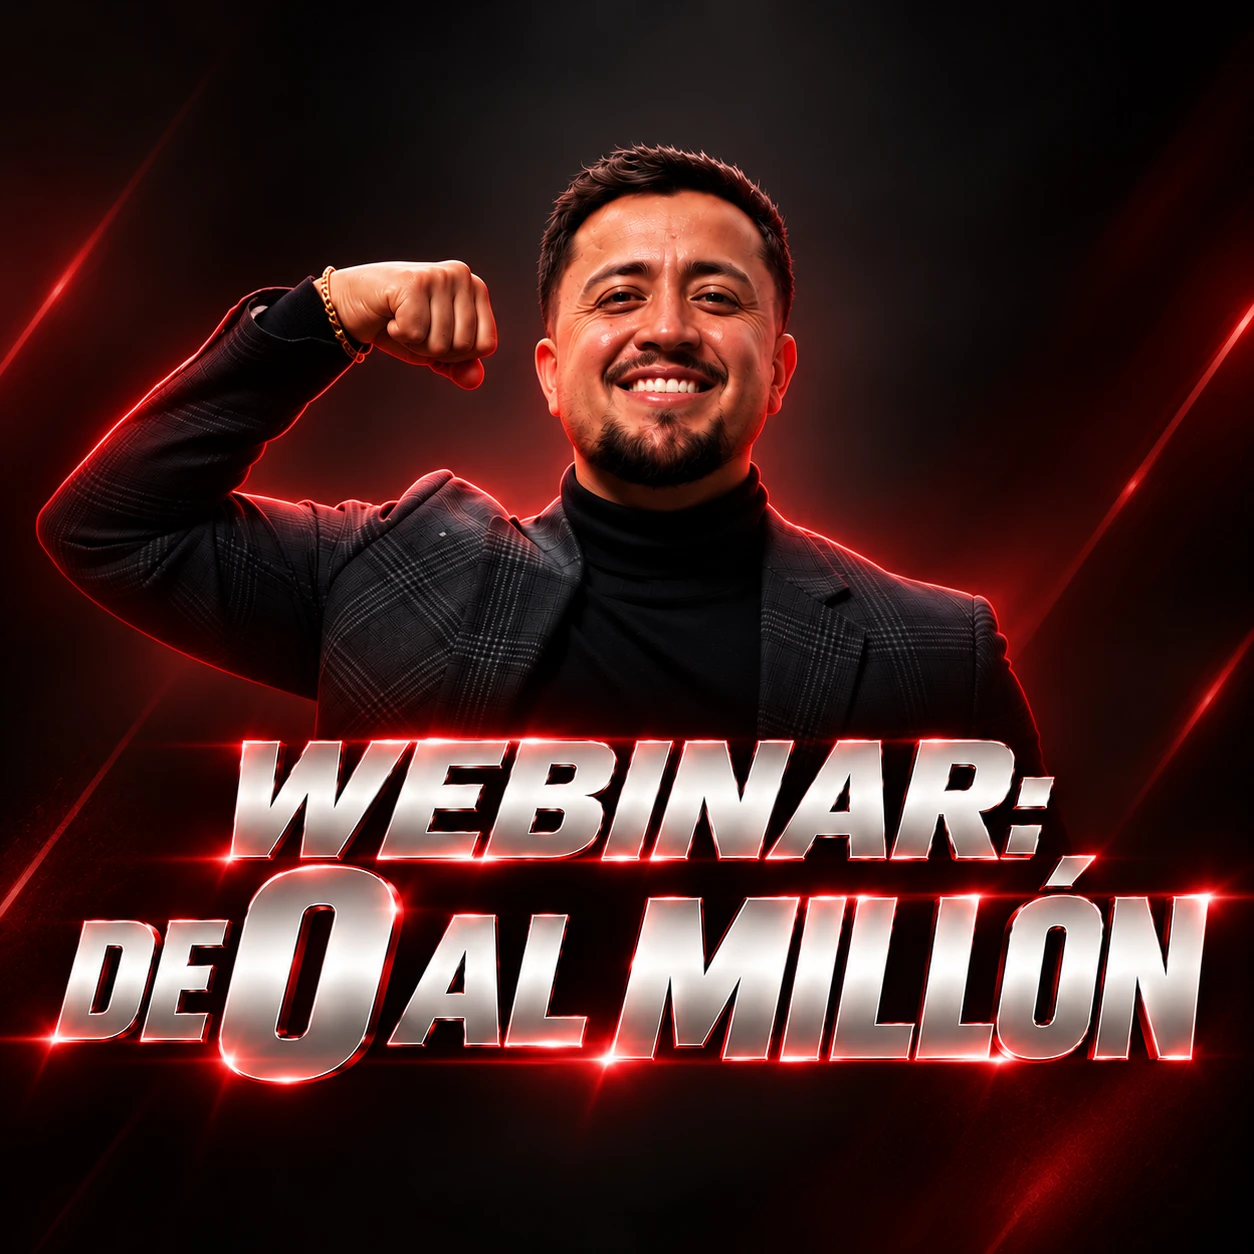
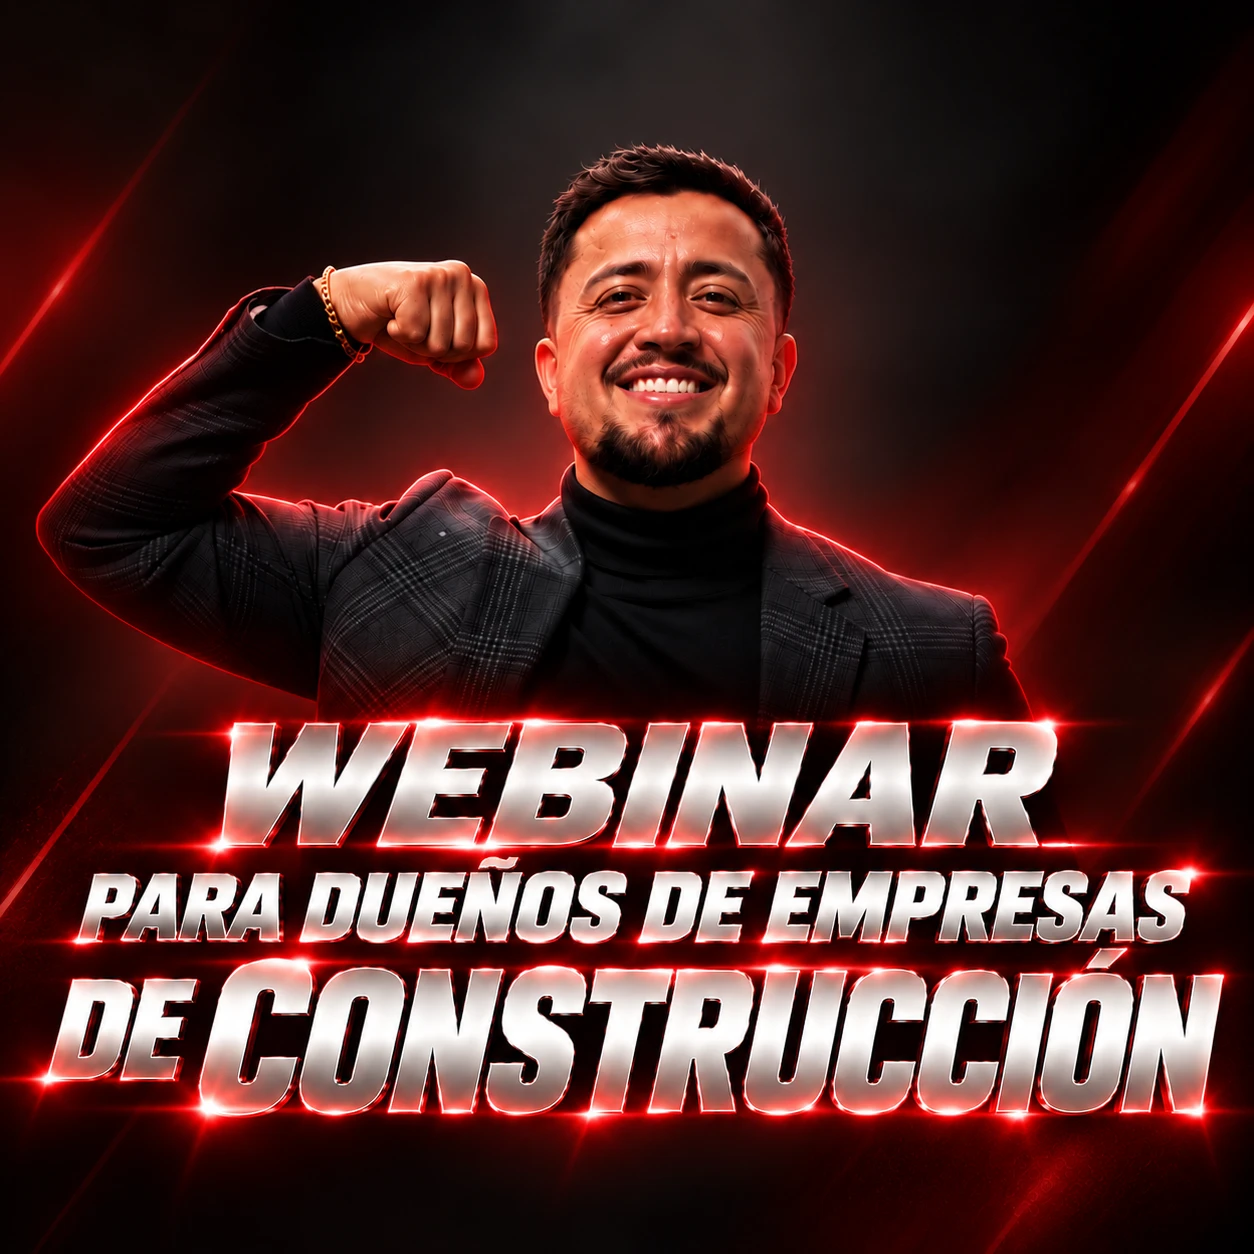
Webinar pages: new hero art, name is 'Webinar para dueños de empresas de construcción'
Claude-Session: https://claude.ai/code/session_01LYzKUjj9ggfEVW4Gcg39jq

diff --git a/webinar/gracias.html b/webinar/gracias.html
@@ -3,8 +3,8 @@
 <head>
 <meta charset="utf-8">
 <meta name="viewport" content="width=device-width, initial-scale=1">
-<title>¡Ya estás registrado(a)! · Webinar para contratistas</title>
-<meta name="description" content="Registro recibido. Completa tu registro en Zoom para recibir tu link de acceso al webinar para contratistas con Hugo Pérez, miércoles 14 de octubre, 8:00 PM (hora del Este).">
+<title>¡Ya estás registrado(a)! · Webinar para dueños de empresas de construcción</title>
+<meta name="description" content="Registro recibido. Completa tu registro en Zoom para recibir tu link de acceso al webinar para dueños de empresas de construcción con Hugo Pérez, miércoles 14 de octubre, 8:00 PM (hora del Este).">
 <meta name="robots" content="noindex, nofollow">
 <meta name="author" content="Hugo Pérez">
 <link rel="icon" href="../next-level-leaders/images/one-empire-icon-red.png">
@@ -468,6 +468,10 @@ fbq('track', 'CompleteRegistration');
     .cal { justify-content: center; }
     .btn { white-space: normal; text-align: center; }
   }
+  @media (max-width: 760px) {
+    .pill { flex-direction: column; gap: 6px; border-radius: 16px; padding: 10px 16px; text-align: center; font-size: 13px; }
+    .pill b { white-space: nowrap; }
+  }
 </style>
 </head>
 <body>
@@ -489,7 +493,7 @@ fbq('track', 'CompleteRegistration');
 <section class="hero ty-hero">
   <div class="wrap">
     <div class="reveal ty-copy">
-      <span class="pill"><b>Registro recibido</b> Webinar para contratistas</span>
+      <span class="pill"><b>Registro recibido</b> Webinar para dueños de empresas de construcción</span>
       <h1><span class="chrome">¡Ya estás registrado(a)</span> <span class="accent">para el webinar gratuito!</span></h1>
       <p class="lead">Tu lugar está apartado. Sigue estos <b>3 pasos</b> para no perderte la sesión en vivo con Hugo Pérez.</p>
       <div class="facts">
@@ -529,7 +533,7 @@ fbq('track', 'CompleteRegistration');
         <div class="step-top"><span class="step-n">02</span><span class="step-tag">Paso 2</span></div>
         <h3>Mantén tu atención al teléfono</h3>
         <p>Uno de nuestros asesores te contactará para darte recordatorios y prepararte para la sesión.</p>
-        <a class="btn btn-ghost" href="https://wa.me/5215623221142?text=Hola%2C%20quiero%20completar%20mi%20registro%20al%20webinar%20para%20contratistas%20por%20WhatsApp.%20%F0%9F%9A%80" target="_blank" rel="noopener"><span class="wa" aria-hidden="true"></span>Completar registro por WhatsApp</a>
+        <a class="btn btn-ghost" href="https://wa.me/5215623221142?text=Hola%2C%20quiero%20completar%20mi%20registro%20al%20webinar%20para%20due%C3%B1os%20de%20empresas%20de%20construcci%C3%B3n%20por%20WhatsApp.%20%F0%9F%9A%80" target="_blank" rel="noopener"><span class="wa" aria-hidden="true"></span>Completar registro por WhatsApp</a>
       </article>
       <article class="card step step-key reveal">
         <div class="step-top"><span class="step-n">03</span><span class="step-tag">Paso 3</span></div>
@@ -547,7 +551,7 @@ fbq('track', 'CompleteRegistration');
   <div class="wrap">
     <div class="row">
       <img src="../next-level-leaders/images/one-empire-logo-red.png" alt="One Empire" loading="lazy">
-      <span>© <span id="year">2026</span> One Empire · Hugo Pérez · Webinar para contratistas</span>
+      <span>© <span id="year">2026</span> One Empire · Hugo Pérez · Webinar para dueños de empresas de construcción</span>
     </div>
   </div>
 </footer>
@@ -559,7 +563,7 @@ fbq('track', 'CompleteRegistration');
 
   // Add-to-calendar links (8:00 PM ET, 2 hours)
   (function () {
-    var EVENT_NAME = "Webinar para contratistas con Hugo Pérez";
+    var EVENT_NAME = "Webinar para dueños de empresas de construcción con Hugo Pérez";
     var START = "20261014T200000";
     var END = "20261014T220000";
     var TIMEZONE = "America/New_York";

diff --git a/webinar/index.html b/webinar/index.html
@@ -451,7 +451,7 @@ fbq('track', 'PageView');
     .hero .key-art + h1 { font-size: clamp(34px, 5vw, 46px); }
   }
   @media (max-width: 760px) {
-    .hero .key-art { max-width: none; width: auto; align-self: stretch; margin: 0 calc(-1 * clamp(16px, 4vw, 40px)) -36px; border-radius: 0; border: 0; box-shadow: none; -webkit-mask-image: linear-gradient(180deg, #000 0%, #000 72%, transparent 100%); mask-image: linear-gradient(180deg, #000 0%, #000 72%, transparent 100%); }
+    .hero .key-art { max-width: none; width: auto; align-self: stretch; margin: 0 calc(-1 * clamp(16px, 4vw, 40px)) 10px; border-radius: 0; border: 0; box-shadow: none; -webkit-mask-image: linear-gradient(180deg, #000 0%, #000 72%, transparent 100%); mask-image: linear-gradient(180deg, #000 0%, #000 72%, transparent 100%); }
     .hero-copy > div:first-child > :not(.key-art) { position: relative; z-index: 1; }
     .hero .key-art + h1 { font-size: clamp(25px, 7.4vw, 34px); }
     h2 { font-size: clamp(28px, 8.4vw, 40px); }
@@ -460,6 +460,10 @@ fbq('track', 'PageView');
     .learn-wrap { padding: 28px 20px; }
     .learn-wrap h2 { font-size: clamp(26px, 7.8vw, 40px); }
     .pill { max-width: 100%; font-size: 13px; }
+  }
+  @media (max-width: 760px) {
+    .pill { flex-direction: column; gap: 6px; border-radius: 16px; padding: 10px 16px; text-align: center; font-size: 13px; }
+    .pill b { white-space: nowrap; }
   }
 </style>
 </head>
@@ -484,8 +488,8 @@ fbq('track', 'PageView');
   <div class="wrap">
     <div class="reveal hero-copy">
       <div>
-      <span class="pill"><b>Gratis</b> Webinar en vivo para contratistas</span>
-      <figure class="key-art"><img src="images/hero-webinar.webp" width="1254" height="1254" alt="Webinar gratuito con Hugo Pérez" fetchpriority="high"></figure>
+      <span class="pill"><b>Gratis</b> Webinar para dueños de empresas de construcción</span>
+      <figure class="key-art"><img src="images/hero-webinar.webp" width="1254" height="1254" alt="Webinar para dueños de empresas de construcción con Hugo Pérez" fetchpriority="high"></figure>
       <h1><span class="chrome">Te mostraré los sistemas que uso en mi empresa de construcción</span> <span class="accent">para crecer</span> <span class="chrome">sin tener que hacerlo todo&nbsp;yo</span></h1>
       <p class="lead">Estrategias, sistemas y habilidades para atraer clientes de forma constante, cobrar con ganancia y cerrar proyectos de mayor valor.</p>
       <p class="hero-proof">Hugo Pérez es fundador de <b>Potros Construction</b> y comparte lo que aplica en su <b class="accent">propia empresa</b>.</p>
